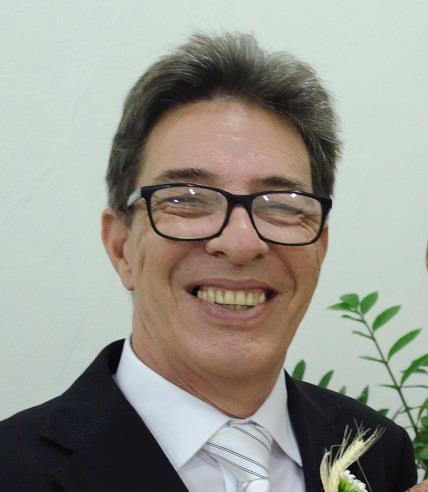
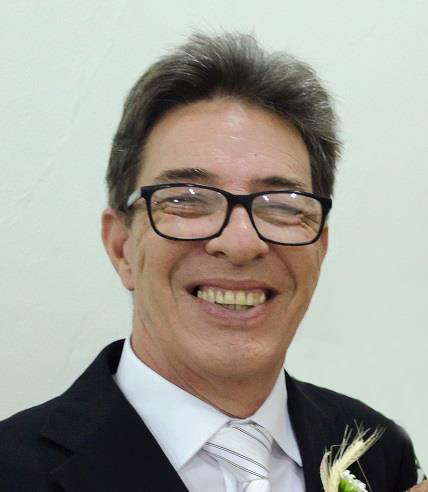
Mod3
Ativação da aba Portfolio e mudança de algumas imagens.

Add lista de palabras chave

Changed region(s): [[0.6682, 0.5793, 1.0, 0.9756], [0.972, 0.4878, 1.0, 0.5488]]

diff --git a/portfolio/index.html b/portfolio/index.html
@@ -1,0 +1,12 @@
+---
+title: Portfólio
+layout: default
+---
+
+<section id="headportfolio">
+    <div class="container">
+        <h3>Portfólio</h3>
+        <p></p>
+        Em breve!
+        </div>
+</section>
